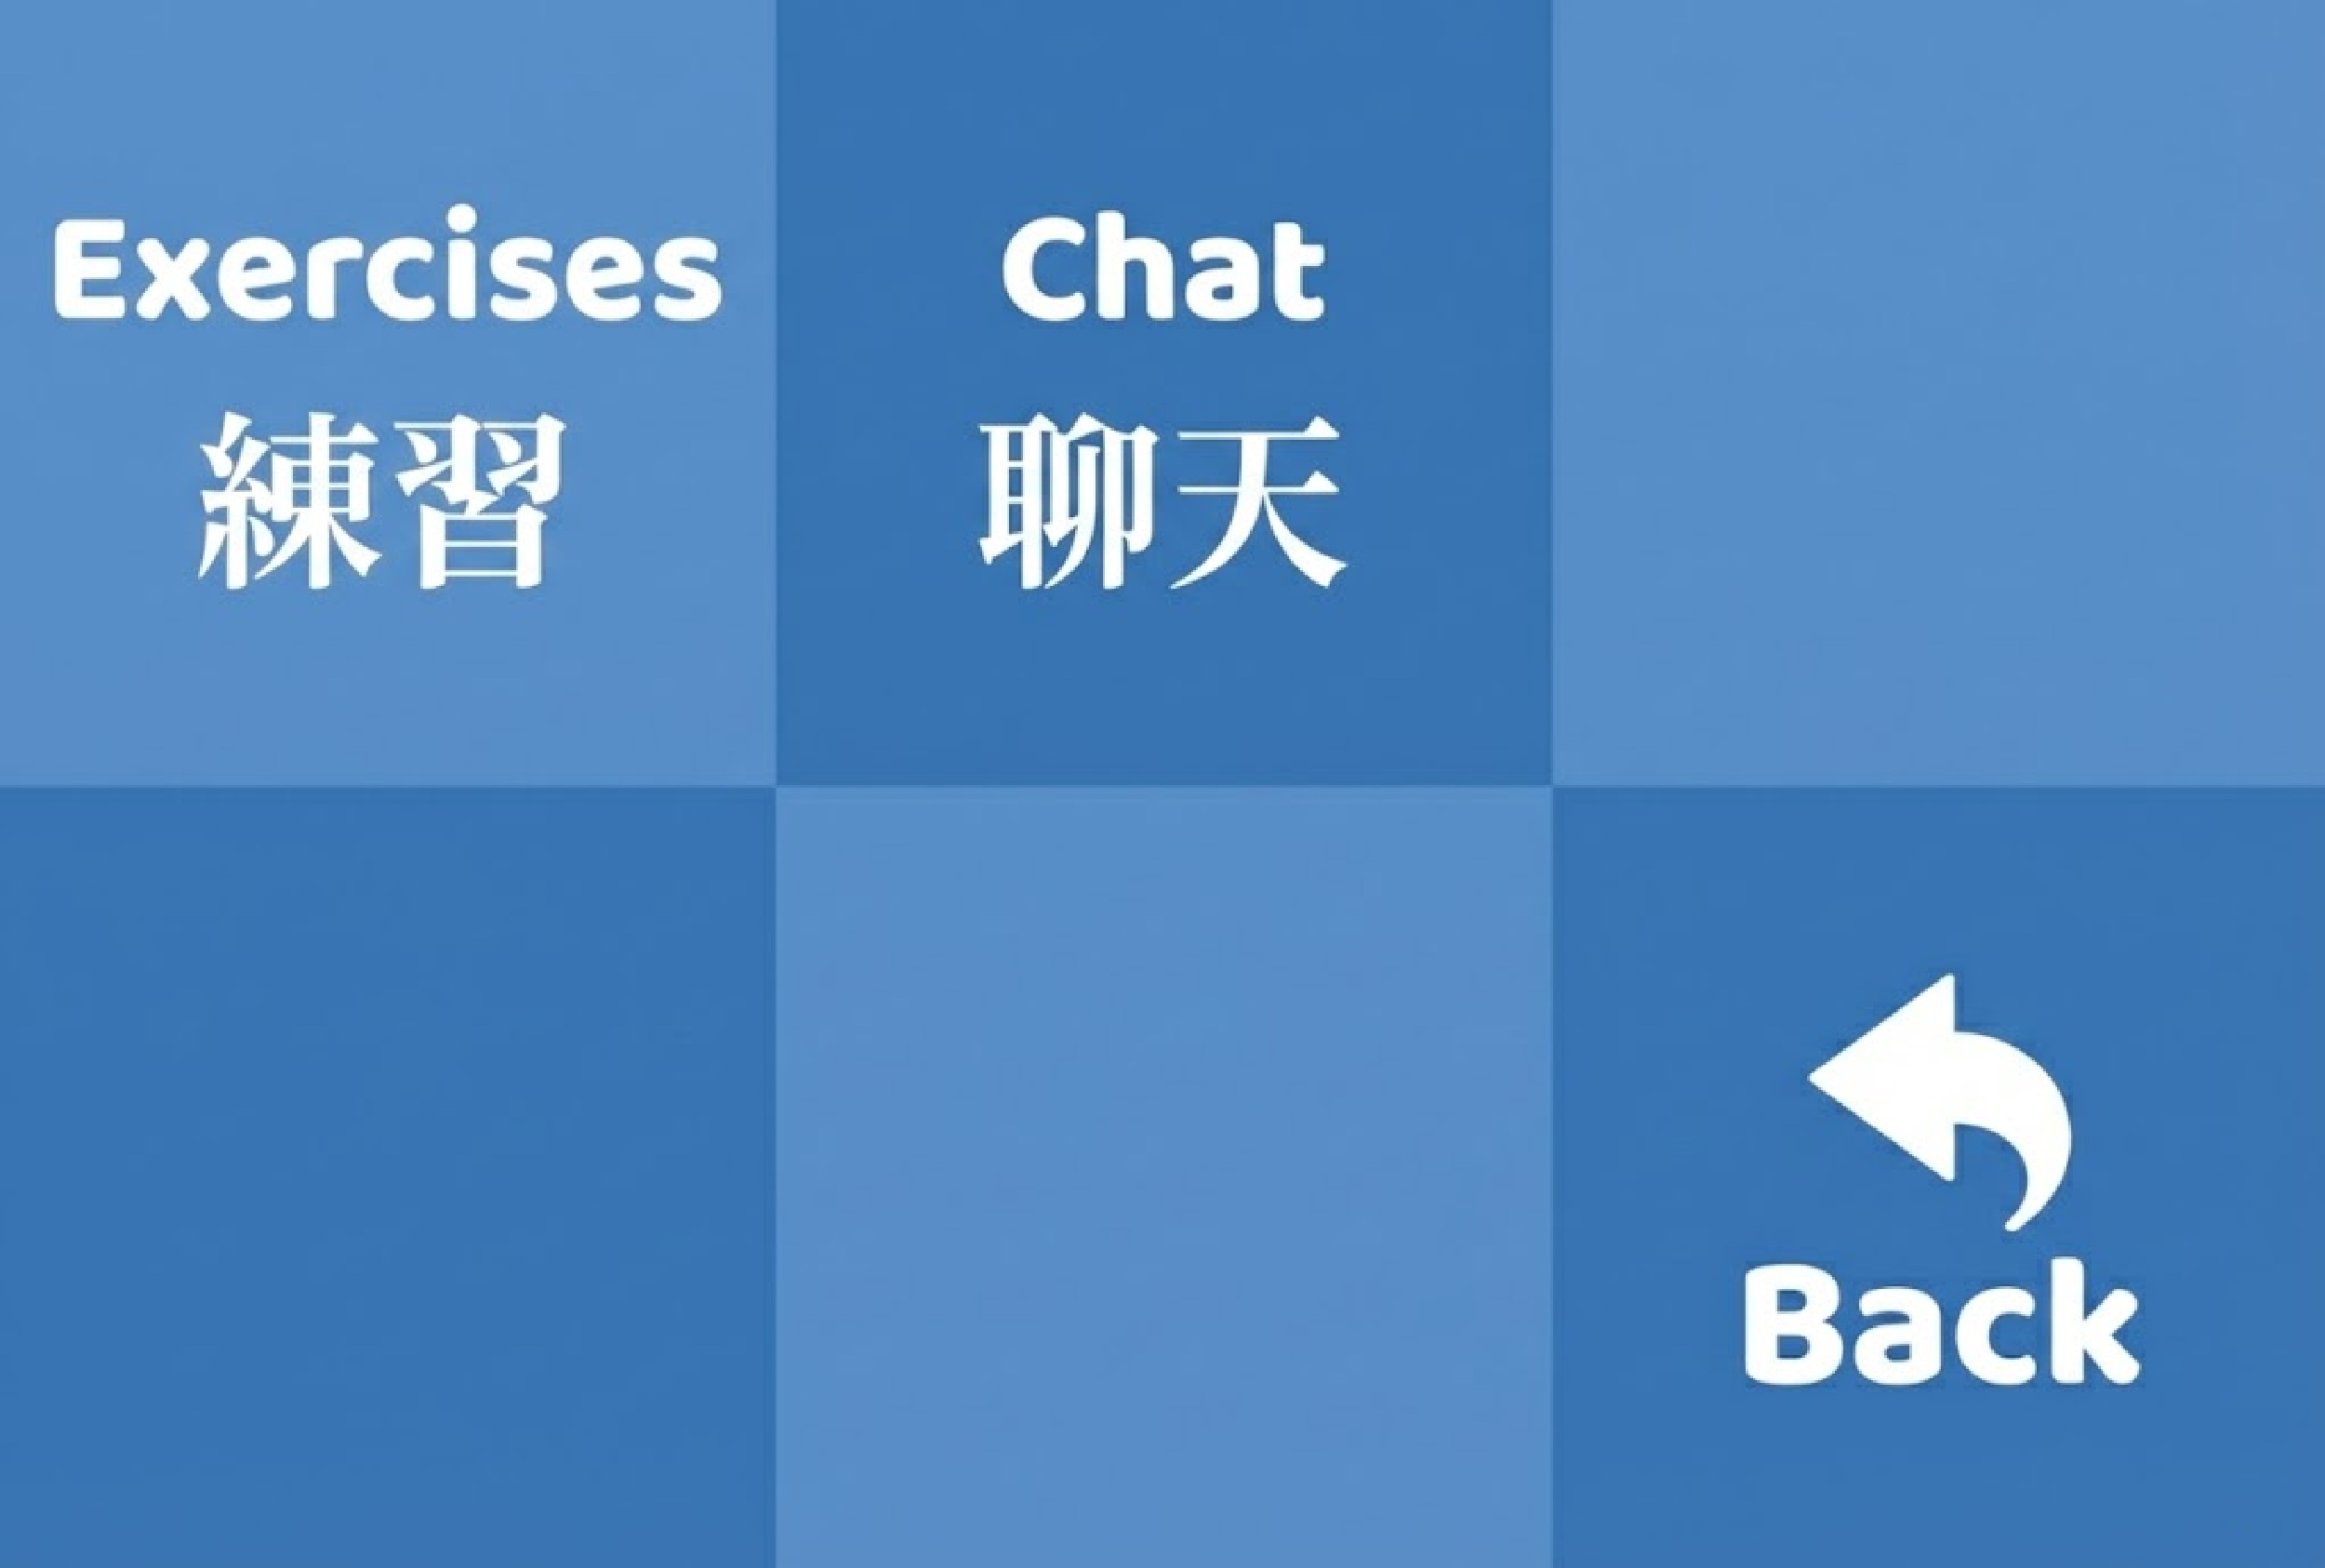
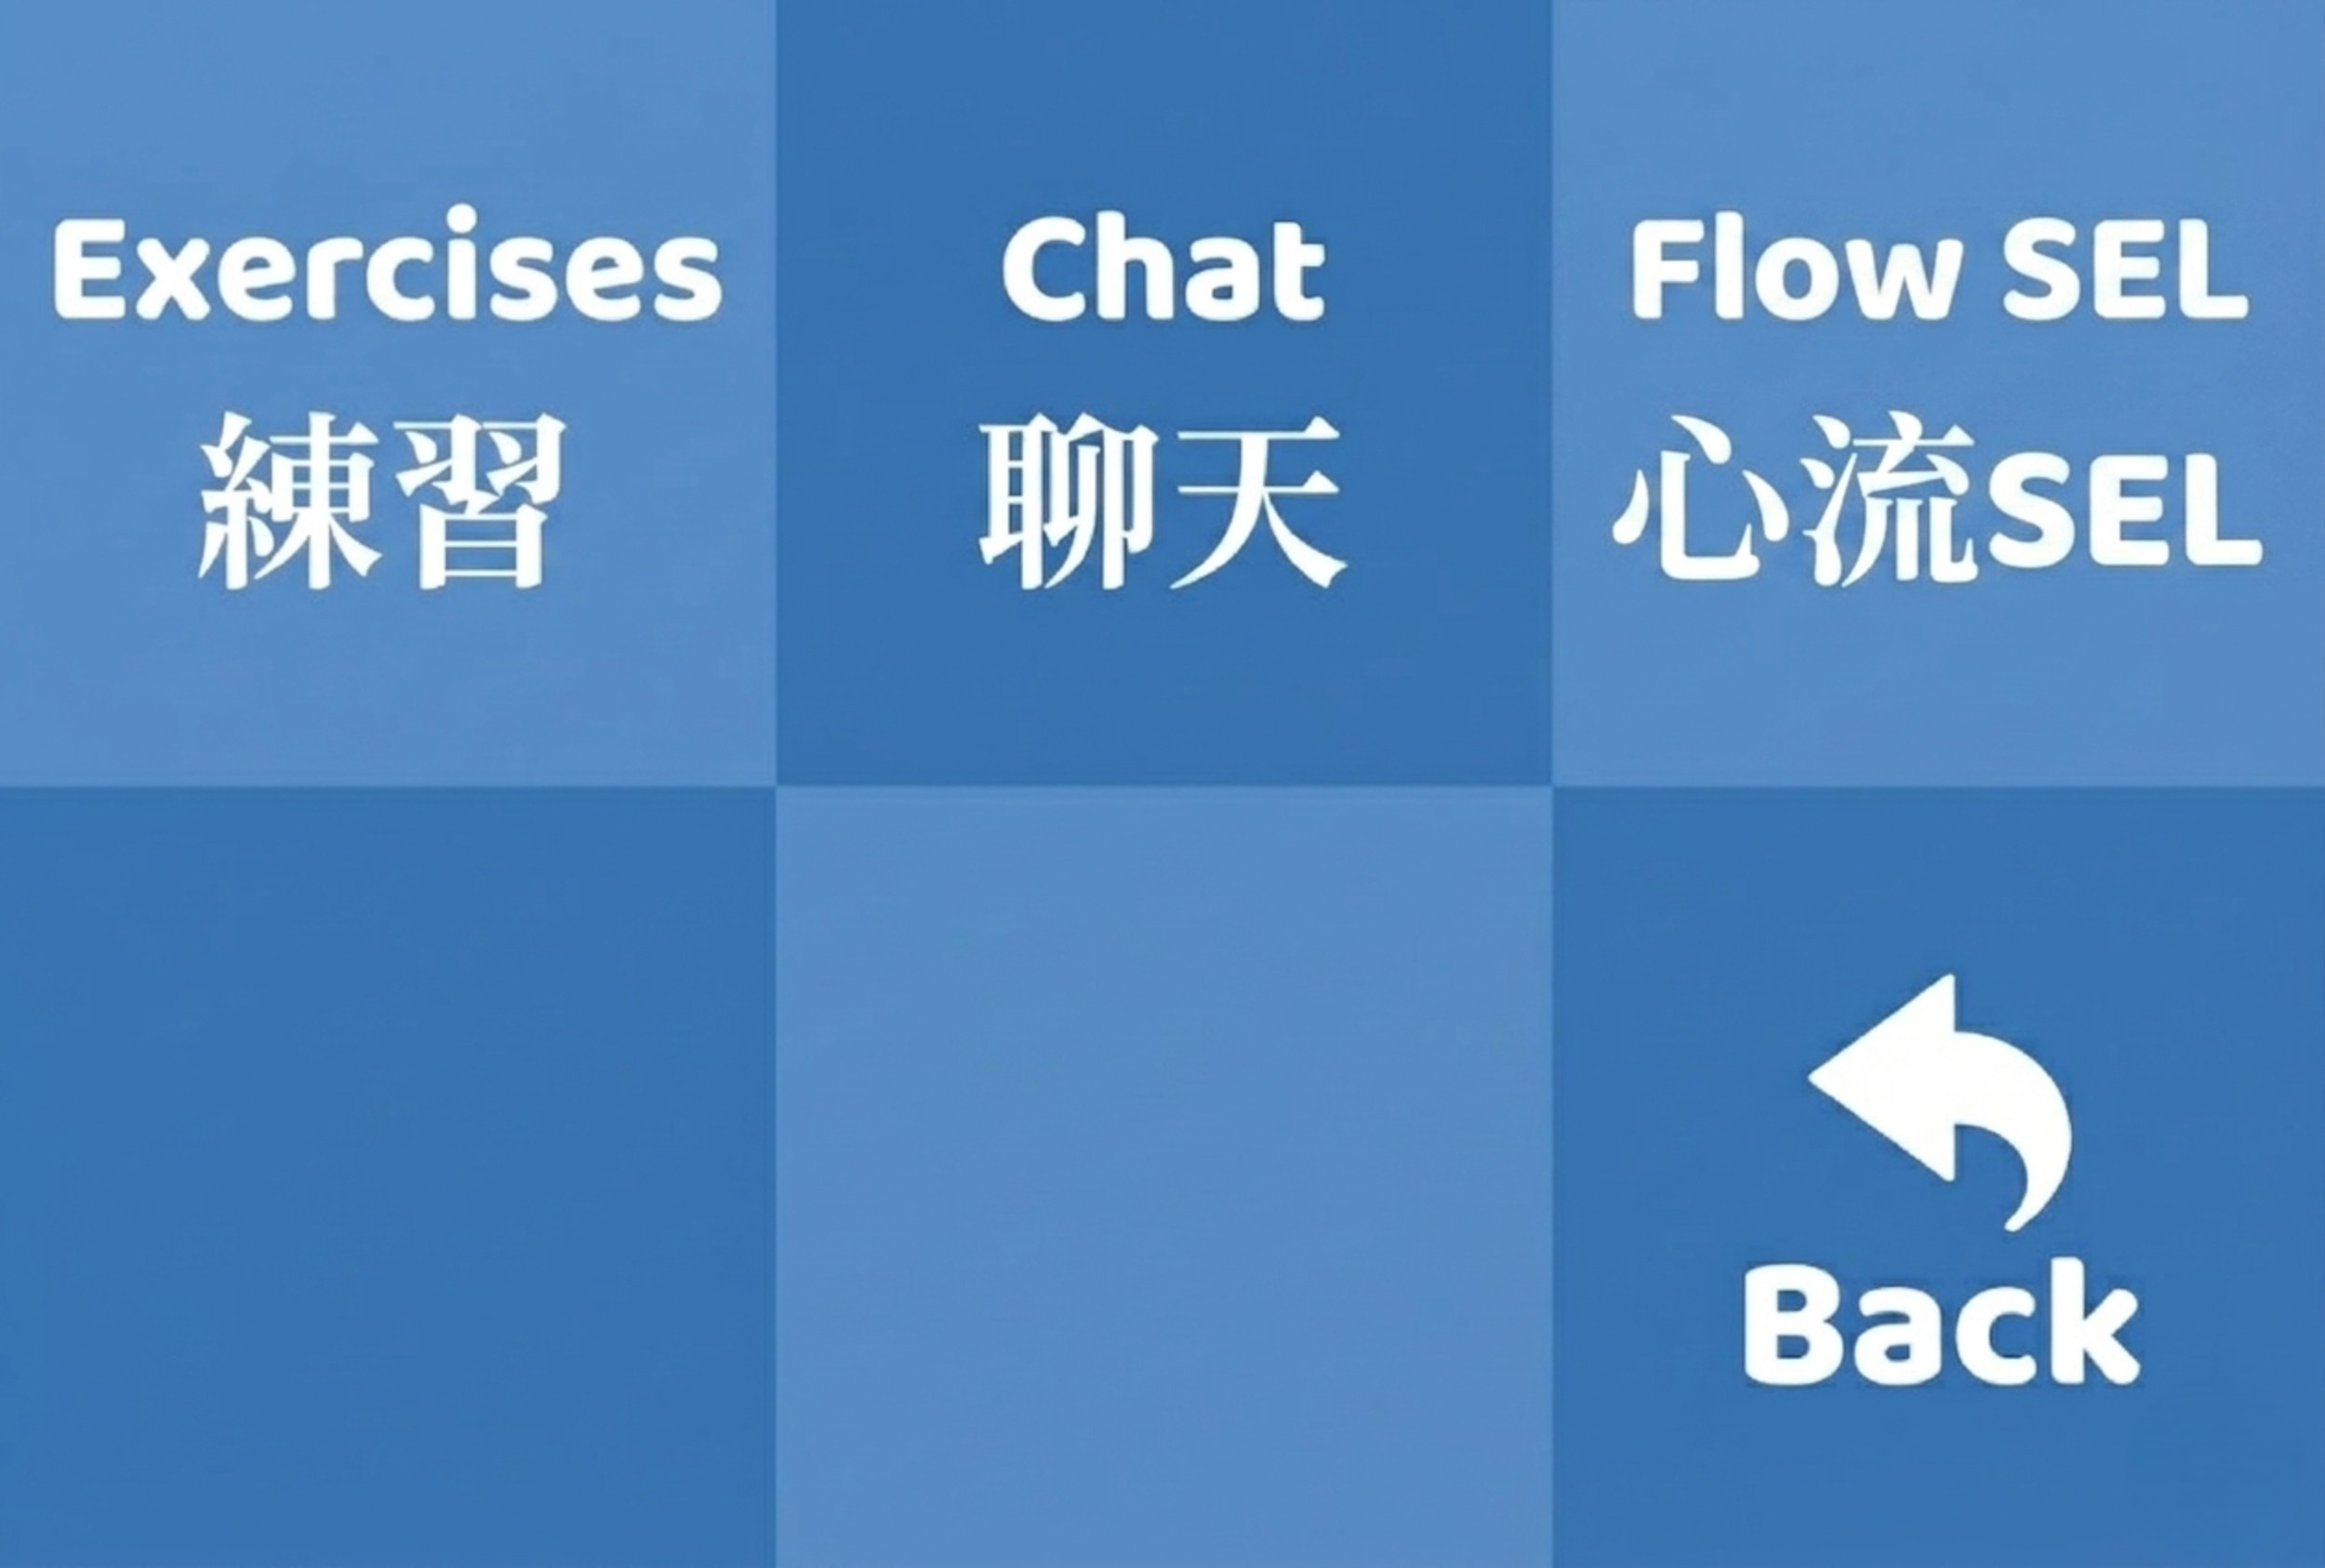
0506新增心流以及地圖前紀錄(Brian)

diff --git a/handlers.py b/handlers.py
@@ -180,6 +180,62 @@ async def transcribe_audio(message_content: bytes, language: str = "en") -> str:
         )
         return transcript_obj.text.strip()
 
+# 儲存尚未完成綁定的使用者資料暫存，key 為 user_id，value 為已填寫的資料列表
+# Temporary store for users in the middle of the account binding flow
+user_data_enter = {}
+
+
+async def handle_follow(event) -> None:
+    """處理使用者首次加入（或封鎖後重新加入）機器人好友的事件。
+    Handle the FollowEvent triggered when a user adds (or re-adds after blocking) the bot as a friend.
+
+    修正說明：
+      原本的同意聲明僅由 check_user_login 觸發，而 check_user_login 需要使用者先主動
+      發送訊息才會執行。若 Greeting message 為純文字（無按鈕），新使用者加入後不會有任何
+      事件打到 check_user_login，導致同意聲明完全不出現。
+      本函式直接攔截 FollowEvent，在使用者加入的瞬間主動推送同意聲明，
+      不再依賴使用者主動發送訊息。
+
+    Fix:
+      The consent notice was previously only shown inside check_user_login, which requires
+      the user to send a message first. With a plain-text Greeting Message (no buttons),
+      new users trigger no events, so check_user_login is never reached and the notice never
+      appears. This function intercepts FollowEvent and proactively pushes the consent notice
+      the moment the user adds the bot, without relying on the user sending any message.
+
+    正確流程 / Correct onboarding flow:
+      1. 使用者加入好友 -> LINE 平台送出 Greeting Message (由 LINE Manager 設定)
+         User adds bot -> LINE platform sends Greeting Message (configured in LINE Manager)
+      2. FollowEvent 觸發 -> 本函式立即推送「語音資料與AI處理同意聲明」
+         FollowEvent fires -> this function immediately sends the voice data consent notice
+      3. 使用者點擊「我同意 / I agree」-> handle_postback 處理 consent -> 進入帳號綁定
+         User taps "I agree" -> handle_postback handles consent -> account binding starts
+      4. 使用者點擊「我不同意 / I disagree」-> 顯示拒絕授權卡片
+         User taps "I disagree" -> consent declined card is shown
+
+    重新綁定流程 / Re-binding flow (after /unlink, without leaving the chat):
+      - 使用者使用 /unlink 解除綁定後仍在聊天室，不會再次觸發 FollowEvent
+      - 此時使用者發送任意訊息 -> handle_text_message -> check_user_login 顯示同意聲明
+      - After /unlink, the user stays in chat so FollowEvent does not fire again.
+      - Any message they send goes through check_user_login which shows the notice.
+    """
+    user_id = event.source.user_id
+
+    # 若使用者已完成綁定（封鎖後重新加入的老使用者），直接略過
+    # If the user is already bound (returning user who re-followed after blocking), skip
+    if hasData(user_id):
+        return
+
+    # 若使用者已在進行帳號綁定流程中，直接略過，避免中斷進行中的流程
+    # If the user is already in the middle of the binding flow, skip
+    if user_id in user_data_enter:
+        return
+
+    # 推送同意聲明卡片
+    # Push the consent notice card immediately
+    await send_message(event, _build_privacy_notice_message())
+
+
 async def handle_text_message(event):
     message: str = event.message.text.strip()
     user_id = event.source.user_id
@@ -201,8 +257,6 @@ async def handle_text_message(event):
         # Service4/5: respond to any non-command text message with the guide AI.
         await show_loading(user_id, secs=15)
         await handle_fallback_guide(event, user_id, message)
-
-user_data_enter = {}
 
 def _build_privacy_notice_message():
     from linebot.v3.messaging import (

diff --git a/routes.py b/routes.py
@@ -1,8 +1,8 @@
 from fastapi import Request, HTTPException
 # from fastapi.templating import Jinja2Templates
 from config import parser
-from handlers import handle_text_message, handle_audio_message, handle_postback
-from linebot.v3.webhooks import MessageEvent, PostbackEvent, TextMessageContent, AudioMessageContent
+from handlers import handle_text_message, handle_audio_message, handle_postback, handle_follow
+from linebot.v3.webhooks import MessageEvent, PostbackEvent, FollowEvent, TextMessageContent, AudioMessageContent
 from linebot.v3.exceptions import InvalidSignatureError
 # from analyze import analyze_by_question
 # from utils.file_utils import getData
@@ -18,7 +18,11 @@ async def callback(request: Request):
         raise HTTPException(status_code=400, detail="Invalid signature")
     
     for event in events:
-        if isinstance(event, PostbackEvent):
+        if isinstance(event, FollowEvent):
+            # 使用者首次加入（或解除後重新加入）機器人為好友時觸發
+            # Triggered when a user adds (or re-adds) the bot as a friend
+            await handle_follow(event)
+        elif isinstance(event, PostbackEvent):
             await handle_postback(event)
         elif isinstance(event, MessageEvent):
             if isinstance(event.message, TextMessageContent):
@@ -33,7 +37,7 @@ async def callback(request: Request):
 # async def index(request: Request):
 #     users = getData()
 #     analysis = analyze_by_question(users.values(), question_manager)
-    
+#     
 #     labels = []
 #     average_scores = []
 #     completion_rates = []
@@ -45,15 +49,15 @@ async def callback(request: Request):
 #             average_scores.append(unit["average_score"])
 #             completion_rate = (unit["users_completed"] / analysis["user_count"] * 100) if analysis["user_count"] > 0 else 0
 #             completion_rates.append(completion_rate)
-    
+#     
 #     analysis_data = {
 #         "labels": labels,
 #         "average_scores": average_scores,
 #         "completion_rates": completion_rates
 #     }
-    
+#     
 #     latest_histories = analysis["latest_histories"]  # Extract latest_histories
-    
+#     
 #     return templates.TemplateResponse("index.html", {
 #         "request": request,
 #         "category_analysis": analysis["category_analysis"],

diff --git a/utils/message_utils.py b/utils/message_utils.py
@@ -3156,14 +3156,14 @@ async def posttest_progress_message(user_id: str) -> FlexMessage:
 # ========== [END] Game Message Functions ==========
 
 CHI_HINT = [
-    'Please enter your class number\n請依照指示輸入你的課程編號\n1 for Board Game Design(4-12)\n2 for Board Game Design(4-34)\n3 for English Culture(5-12)\n4 for English Culture(5-34)\n5 for Others',
+    'Please enter your class number\n請依照指示輸入你的課程編號\n1. Board Game Design Class A(4-12)\n2. Board Game Design Class B(4-34)\n3. British Culture Class A(5-12)\n4. British Culture Class B(5-34)\n5. Others',
     'Next, what is your department?\nFor example: Information Management\nEnter "Back" to go back.\n接著，請輸入你的系級\n如：資管一乙\n輸入 "Back" 可返回上一步',
     'Next, what is your student ID?\nFor example: 11352237\nEnter "Back" to go back.\n接著，請輸入你的學號\n如：11352237\n輸入 "Back" 可返回上一步',
     'Next, what is your name?\nFor example: Paul Wang\nEnter "Back" to go back.\n接著，請輸入你的姓名\n如：王聰明\n輸入 "Back" 可返回上一步',
 ]
 
 ENG_HINT =[
-    'Enter your class number\n1 for Board Game Design(4-12)\n2 for Board Game Design(4-34)\n3 for English Culture(5-12)\n4 for English Culture(5-34)\n5 for Others',
+    'Enter your class number\n1. Board Game Design Class A(4-12)\n2. Board Game Design Class B(4-34)\n3. British Culture Class A(5-12)\n4. British Culture Class B(5-34)\n5. Others',
     'Next, what is your department?\nFor example: Information Management\nEnter "Back" to previous step.',
     'Next, what is your student ID?\nFor example: 11352237\nEnter "Back" to previous step.',
     'Next, what is you name?\nFor example: Paul Wang\nEnter "Back" to previous step.',